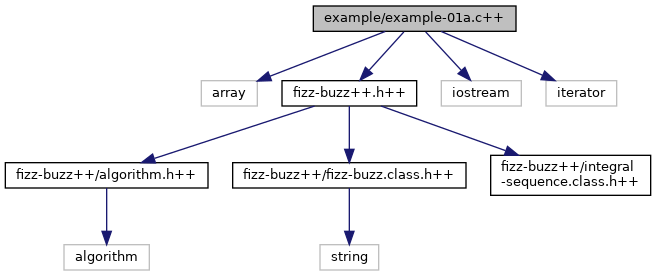
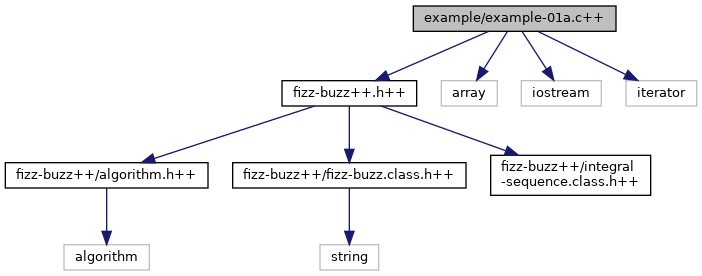
Doxygen ドキュメントを更新
前回のコミットにおけるリファクタリングにより, ヘッダファイルのインクルードに関するグラフに変化が生じた.

diff --git a/document/html/de/d3c/example-01a_8c_09_09.html b/document/html/de/d3c/example-01a_8c_09_09.html
@@ -71,8 +71,8 @@ $(function() {
 <div class="title">example-01a.c++ File Reference</div>  </div>
 </div><!--header-->
 <div class="contents">
-<div class="textblock"><code>#include &lt;array&gt;</code><br />
-<code>#include &lt;<a class="el" href="../../d1/d59/fizz-buzz_09_09_8h_09_09_source.html">fizz-buzz++.h++</a>&gt;</code><br />
+<div class="textblock"><code>#include &lt;<a class="el" href="../../d1/d59/fizz-buzz_09_09_8h_09_09_source.html">fizz-buzz++.h++</a>&gt;</code><br />
+<code>#include &lt;array&gt;</code><br />
 <code>#include &lt;iostream&gt;</code><br />
 <code>#include &lt;iterator&gt;</code><br />
 </div><div class="textblock"><div class="dynheader">
@@ -80,11 +80,11 @@ Include dependency graph for example-01a.c++:</div>
 <div class="dyncontent">
 <div class="center"><img src="../../d8/dee/example-01a_8c_09_09__incl.png" border="0" usemap="#example_2example-01a_8c_09_09" alt=""/></div>
 <map name="example_2example-01a_8c_09_09" id="example_2example-01a_8c_09_09">
-<area shape="rect" title=" " alt="" coords="313,5,516,32"/>
-<area shape="rect" title=" " alt="" coords="201,80,257,107"/>
+<area shape="rect" title=" " alt="" coords="413,5,616,32"/>
 <area shape="rect" href="../../d1/d59/fizz-buzz_09_09_8h_09_09.html" title=" " alt="" coords="282,80,417,107"/>
-<area shape="rect" title=" " alt="" coords="441,80,521,107"/>
-<area shape="rect" title=" " alt="" coords="546,80,617,107"/>
+<area shape="rect" title=" " alt="" coords="441,80,497,107"/>
+<area shape="rect" title=" " alt="" coords="521,80,601,107"/>
+<area shape="rect" title=" " alt="" coords="626,80,697,107"/>
 <area shape="rect" href="../../d2/d3a/algorithm_8h_09_09.html" title=" " alt="" coords="5,162,208,189"/>
 <area shape="rect" href="../../dd/d2d/fizz-buzz_8class_8h_09_09.html" title=" " alt="" coords="233,162,466,189"/>
 <area shape="rect" href="../../d8/d30/integral-sequence_8class_8h_09_09.html" title=" " alt="" coords="491,155,651,196"/>
